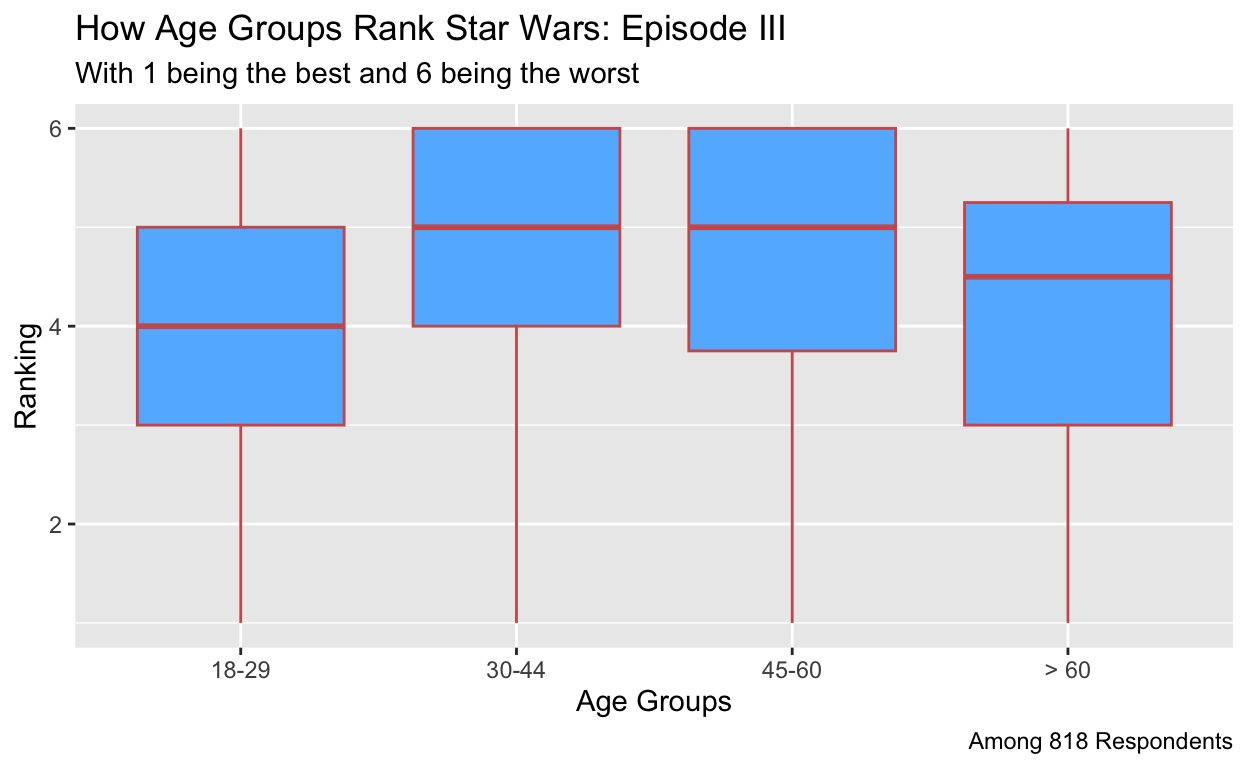
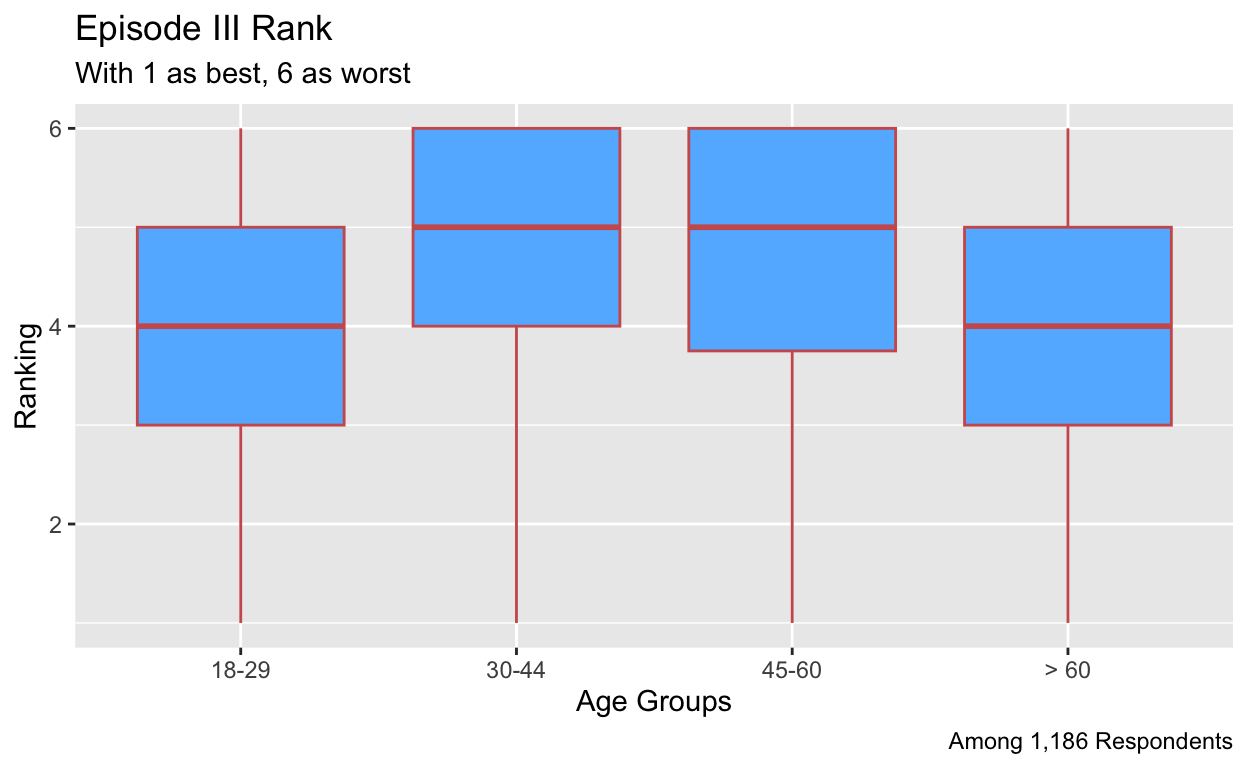
more data visualization of all movies

diff --git a/index.html b/index.html
@@ -115,7 +115,7 @@ code span.wa { color: #5e5e5e; font-style: italic; } /* Warning */
   <!--/radix_placeholder_rmarkdown_metadata-->
   
   <script type="text/json" id="radix-resource-manifest">
-  {"type":"character","attributes":{},"value":["index_files/anchor-4.2.2/anchor.min.js","index_files/bowser-1.9.3/bowser.min.js","index_files/distill-2.2.21/template.v2.js","index_files/figure-html5/unnamed-chunk-2-1.png","index_files/header-attrs-2.17/header-attrs.js","index_files/header-attrs-2.24/header-attrs.js","index_files/jquery-3.6.0/jquery-3.6.0.js","index_files/jquery-3.6.0/jquery-3.6.0.min.js","index_files/jquery-3.6.0/jquery-3.6.0.min.map","index_files/popper-2.6.0/popper.min.js","index_files/tippy-6.2.7/tippy-bundle.umd.min.js","index_files/tippy-6.2.7/tippy-light-border.css","index_files/tippy-6.2.7/tippy.css","index_files/tippy-6.2.7/tippy.umd.min.js","index_files/webcomponents-2.0.0/webcomponents.js"]}
+  {"type":"character","attributes":{},"value":["index_files/anchor-4.2.2/anchor.min.js","index_files/bowser-1.9.3/bowser.min.js","index_files/distill-2.2.21/template.v2.js","index_files/figure-html5/unnamed-chunk-2-1.png","index_files/figure-html5/unnamed-chunk-3-1.png","index_files/figure-html5/unnamed-chunk-3-2.png","index_files/header-attrs-2.17/header-attrs.js","index_files/header-attrs-2.24/header-attrs.js","index_files/jquery-3.6.0/jquery-3.6.0.js","index_files/jquery-3.6.0/jquery-3.6.0.min.js","index_files/jquery-3.6.0/jquery-3.6.0.min.map","index_files/popper-2.6.0/popper.min.js","index_files/tippy-6.2.7/tippy-bundle.umd.min.js","index_files/tippy-6.2.7/tippy-light-border.css","index_files/tippy-6.2.7/tippy.css","index_files/tippy-6.2.7/tippy.umd.min.js","index_files/webcomponents-2.0.0/webcomponents.js"]}
   </script>
   <!--radix_placeholder_navigation_in_header-->
   <!--/radix_placeholder_navigation_in_header-->
@@ -1517,15 +1517,16 @@ code span.wa { color: #5e5e5e; font-style: italic; } /* Warning */
 </div>
 
 <div class="d-article">
-<h2 id="project-thoughts">Project thoughts</h2>
+<h2 id="project-thoughts-milestone-1">Project Thoughts (Milestone 1)</h2>
 <p>I am interested in exploring data related to Taylor Swift’s impact on benefiting the economy, voting behavior, or something related to movies.</p>
-<h2 id="proposal">Proposal</h2>
+<h2 id="proposal-milestone-2">Proposal (Milestone 2)</h2>
 <p>Do younger people prefer the Star Wars prequel movies more than the originals? In this study, I plan to analyze respondents ages and which Star Wars movies they like the most. I hypothesize that if people are younger then they will prefer the prequel movies more than the originals because they grew up as the prequel movies were being released. For this analysis, I will be using data collected by Walt Hickey from FiveThirtyEight. The explanatory variable of interest is the age group of the respondents in the survey. This is measured in four age groups: 18-29, 30-44, 45-60, and &gt; 60. My outcome variable is how respondents ranked the 6 Star Wars movies. This is measured by rankings of 1 to 6 with 1 being their favorite film and 6 being their least favorite. If I observe that those in the younger age category (18-29) ranked the prequel movies higher, this would support my hypothesis. However, if I observe the opposite and say, for example, there is only strong support for the original movies among all age groups, this would be evidence against my hypothesis.</p>
-<h2 id="data-visualization">Data Visualization</h2>
+<h2 id="data-visualization-milestone-3">Data Visualization (Milestone 3)</h2>
 <div class="layout-chunk" data-layout="l-body">
 <div class="sourceCode">
 <pre class="sourceCode r"><code class="sourceCode r"><span><span class='kw'><a href='https://rdrr.io/r/base/library.html'>library</a></span><span class='op'>(</span><span class='va'><a href='https://tidyverse.tidyverse.org'>tidyverse</a></span><span class='op'>)</span></span>
 <span><span class='kw'><a href='https://rdrr.io/r/base/library.html'>library</a></span><span class='op'>(</span><span class='va'><a href='https://ggplot2.tidyverse.org'>ggplot2</a></span><span class='op'>)</span></span>
+<span><span class='kw'><a href='https://rdrr.io/r/base/library.html'>library</a></span><span class='op'>(</span><span class='va'><a href='https://rpkgs.datanovia.com/ggpubr/'>ggpubr</a></span><span class='op'>)</span></span>
 <span><span class='fu'><a href='https://rdrr.io/r/base/load.html'>load</a></span><span class='op'>(</span><span class='st'>"StarWars.RData"</span><span class='op'>)</span></span>
 <span><span class='va'>StarWars</span> <span class='op'>&lt;-</span> <span class='fu'><a href='https://tibble.tidyverse.org/reference/as_tibble.html'>as_tibble</a></span><span class='op'>(</span><span class='va'>StarWars</span><span class='op'>)</span> <span class='op'>|&gt;</span></span>
 <span>  <span class='fu'><a href='https://dplyr.tidyverse.org/reference/select.html'>select</a></span><span class='op'>(</span><span class='va'>V1</span><span class='op'>:</span><span class='va'>V3</span>, <span class='va'>V10</span><span class='op'>:</span><span class='va'>V15</span>, <span class='va'>V34</span><span class='op'>:</span><span class='va'>V38</span><span class='op'>)</span> <span class='op'>|&gt;</span></span>
@@ -1539,44 +1540,114 @@ code span.wa { color: #5e5e5e; font-style: italic; } /* Warning */
 <span>         ep3_rank <span class='op'>=</span> <span class='fu'><a href='https://rdrr.io/r/base/integer.html'>as.integer</a></span><span class='op'>(</span><span class='va'>ep3_rank</span><span class='op'>)</span>,</span>
 <span>         ep4_rank <span class='op'>=</span> <span class='fu'><a href='https://rdrr.io/r/base/integer.html'>as.integer</a></span><span class='op'>(</span><span class='va'>ep4_rank</span><span class='op'>)</span>,</span>
 <span>         ep5_rank <span class='op'>=</span> <span class='fu'><a href='https://rdrr.io/r/base/integer.html'>as.integer</a></span><span class='op'>(</span><span class='va'>ep5_rank</span><span class='op'>)</span>,</span>
-<span>         ep6_rank <span class='op'>=</span> <span class='fu'><a href='https://rdrr.io/r/base/integer.html'>as.integer</a></span><span class='op'>(</span><span class='va'>ep6_rank</span><span class='op'>)</span><span class='op'>)</span> <span class='op'>|&gt;</span></span>
-<span>  <span class='fu'><a href='https://rdrr.io/r/stats/na.fail.html'>na.omit</a></span><span class='op'>(</span><span class='op'>)</span></span>
+<span>         ep6_rank <span class='op'>=</span> <span class='fu'><a href='https://rdrr.io/r/base/integer.html'>as.integer</a></span><span class='op'>(</span><span class='va'>ep6_rank</span><span class='op'>)</span><span class='op'>)</span></span>
 <span><span class='va'>StarWars</span></span></code></pre>
 </div>
-<pre><code># A tibble: 834 × 14
+<pre><code># A tibble: 1,186 × 14
    respondent_id seen_any_film fan   ep1_rank ep2_rank ep3_rank
    &lt;chr&gt;         &lt;chr&gt;         &lt;chr&gt;    &lt;int&gt;    &lt;int&gt;    &lt;int&gt;
- 1 3292879998    Yes           Yes          3        2        1
- 2 3292765271    Yes           No           1        2        3
- 3 3292763116    Yes           Yes          5        6        1
- 4 3292731220    Yes           Yes          5        4        6
- 5 3292719380    Yes           Yes          1        4        3
- 6 3292684787    Yes           Yes          6        5        4
- 7 3292663732    Yes           Yes          4        5        6
- 8 3292654043    Yes           Yes          5        4        6
- 9 3292640424    Yes           No           1        2        3
-10 3292609214    Yes           No           3        4        5
-# ℹ 824 more rows
+ 1 3292879998    Yes           &quot;Yes&quot;        3        2        1
+ 2 3292879538    No            &quot;&quot;          NA       NA       NA
+ 3 3292765271    Yes           &quot;No&quot;         1        2        3
+ 4 3292763116    Yes           &quot;Yes&quot;        5        6        1
+ 5 3292731220    Yes           &quot;Yes&quot;        5        4        6
+ 6 3292719380    Yes           &quot;Yes&quot;        1        4        3
+ 7 3292684787    Yes           &quot;Yes&quot;        6        5        4
+ 8 3292663732    Yes           &quot;Yes&quot;        4        5        6
+ 9 3292654043    Yes           &quot;Yes&quot;        5        4        6
+10 3292640424    Yes           &quot;No&quot;         1        2        3
+# ℹ 1,176 more rows
 # ℹ 8 more variables: ep4_rank &lt;int&gt;, ep5_rank &lt;int&gt;, ep6_rank &lt;int&gt;,
 #   gender &lt;chr&gt;, age &lt;chr&gt;, income &lt;chr&gt;, education &lt;chr&gt;,
 #   location &lt;chr&gt;</code></pre>
 </div>
 <div class="layout-chunk" data-layout="l-body">
 <div class="sourceCode">
-<pre class="sourceCode r"><code class="sourceCode r"><span><span class='va'>StarWars</span> <span class='op'>|&gt;</span></span>
+<pre class="sourceCode r"><code class="sourceCode r"><span><span class='va'>age_ep3_rank</span> <span class='op'>&lt;-</span> <span class='va'>StarWars</span> <span class='op'>|&gt;</span></span>
 <span>  <span class='fu'><a href='https://dplyr.tidyverse.org/reference/filter.html'>filter</a></span><span class='op'>(</span><span class='va'>age</span> <span class='op'>==</span> <span class='st'>"18-29"</span> <span class='op'>|</span> <span class='va'>age</span> <span class='op'>==</span> <span class='st'>"30-44"</span> <span class='op'>|</span> <span class='va'>age</span> <span class='op'>==</span> <span class='st'>"45-60"</span> <span class='op'>|</span> <span class='va'>age</span> <span class='op'>==</span> <span class='st'>"&gt; 60"</span><span class='op'>)</span> <span class='op'>|&gt;</span></span>
 <span>  <span class='fu'><a href='https://ggplot2.tidyverse.org/reference/ggplot.html'>ggplot</a></span><span class='op'>(</span>mapping <span class='op'>=</span> <span class='fu'><a href='https://ggplot2.tidyverse.org/reference/aes.html'>aes</a></span><span class='op'>(</span>x <span class='op'>=</span> <span class='fu'><a href='https://rdrr.io/r/base/factor.html'>factor</a></span><span class='op'>(</span><span class='va'>age</span>, level <span class='op'>=</span> <span class='fu'><a href='https://rdrr.io/r/base/c.html'>c</a></span><span class='op'>(</span><span class='st'>"18-29"</span>, <span class='st'>"30-44"</span>, <span class='st'>"45-60"</span>, <span class='st'>"&gt; 60"</span><span class='op'>)</span><span class='op'>)</span>,</span>
 <span>                       y <span class='op'>=</span> <span class='va'>ep3_rank</span><span class='op'>)</span><span class='op'>)</span> <span class='op'>+</span></span>
 <span>  <span class='fu'><a href='https://ggplot2.tidyverse.org/reference/geom_boxplot.html'>geom_boxplot</a></span><span class='op'>(</span>color <span class='op'>=</span> <span class='st'>"indianred"</span>, fill <span class='op'>=</span> <span class='st'>"steelblue1"</span><span class='op'>)</span> <span class='op'>+</span></span>
-<span>  <span class='fu'><a href='https://ggplot2.tidyverse.org/reference/labs.html'>labs</a></span><span class='op'>(</span>title <span class='op'>=</span> <span class='st'>"How Age Groups Rank Star Wars: Episode III"</span>,</span>
-<span>       subtitle <span class='op'>=</span> <span class='st'>"With 1 being the best and 6 being the worst"</span>,</span>
+<span>  <span class='fu'><a href='https://ggplot2.tidyverse.org/reference/labs.html'>labs</a></span><span class='op'>(</span>title <span class='op'>=</span> <span class='st'>"Episode III Rank"</span>,</span>
+<span>       subtitle <span class='op'>=</span> <span class='st'>"With 1 as best, 6 as worst"</span>,</span>
 <span>       x <span class='op'>=</span> <span class='st'>"Age Groups"</span>,</span>
 <span>       y <span class='op'>=</span> <span class='st'>"Ranking"</span>,</span>
-<span>       caption <span class='op'>=</span> <span class='st'>"Among 818 Respondents"</span><span class='op'>)</span></span></code></pre>
+<span>       caption <span class='op'>=</span> <span class='st'>"Among 1,186 Respondents"</span><span class='op'>)</span></span>
+<span><span class='va'>age_ep3_rank</span></span></code></pre>
 </div>
 <p><img src="index_files/figure-html5/unnamed-chunk-2-1.png" width="624" /></p>
 </div>
-<div class="sourceCode" id="cb2"><pre class="sourceCode r distill-force-highlighting-css"><code class="sourceCode r"></code></pre></div>
+<p>Based on this visualization, it appears that across all age groups, Star Wars: Episode III is not often placed highly in the ranking of the films. However, those 18-29 and &gt;60 place it higher than those 30-60.</p>
+<h2 id="data-analysis-milestone-4">Data Analysis (Milestone 4)</h2>
+<div class="layout-chunk" data-layout="l-body">
+<div class="sourceCode">
+<pre class="sourceCode r"><code class="sourceCode r"><span><span class='va'>age_ep1_rank</span> <span class='op'>&lt;-</span> <span class='va'>StarWars</span> <span class='op'>|&gt;</span></span>
+<span>  <span class='fu'><a href='https://dplyr.tidyverse.org/reference/filter.html'>filter</a></span><span class='op'>(</span><span class='va'>age</span> <span class='op'>==</span> <span class='st'>"18-29"</span> <span class='op'>|</span> <span class='va'>age</span> <span class='op'>==</span> <span class='st'>"30-44"</span> <span class='op'>|</span> <span class='va'>age</span> <span class='op'>==</span> <span class='st'>"45-60"</span> <span class='op'>|</span> <span class='va'>age</span> <span class='op'>==</span> <span class='st'>"&gt; 60"</span><span class='op'>)</span> <span class='op'>|&gt;</span></span>
+<span>  <span class='fu'><a href='https://ggplot2.tidyverse.org/reference/ggplot.html'>ggplot</a></span><span class='op'>(</span>mapping <span class='op'>=</span> <span class='fu'><a href='https://ggplot2.tidyverse.org/reference/aes.html'>aes</a></span><span class='op'>(</span>x <span class='op'>=</span> <span class='fu'><a href='https://rdrr.io/r/base/factor.html'>factor</a></span><span class='op'>(</span><span class='va'>age</span>, level <span class='op'>=</span> <span class='fu'><a href='https://rdrr.io/r/base/c.html'>c</a></span><span class='op'>(</span><span class='st'>"18-29"</span>, <span class='st'>"30-44"</span>, <span class='st'>"45-60"</span>, <span class='st'>"&gt; 60"</span><span class='op'>)</span><span class='op'>)</span>,</span>
+<span>                       y <span class='op'>=</span> <span class='va'>ep1_rank</span><span class='op'>)</span><span class='op'>)</span> <span class='op'>+</span></span>
+<span>  <span class='fu'><a href='https://ggplot2.tidyverse.org/reference/geom_boxplot.html'>geom_boxplot</a></span><span class='op'>(</span>color <span class='op'>=</span> <span class='st'>"indianred"</span>, fill <span class='op'>=</span> <span class='st'>"steelblue1"</span><span class='op'>)</span> <span class='op'>+</span></span>
+<span>  <span class='fu'><a href='https://ggplot2.tidyverse.org/reference/labs.html'>labs</a></span><span class='op'>(</span>title <span class='op'>=</span> <span class='st'>"Episode I Rank"</span>,</span>
+<span>       subtitle <span class='op'>=</span> <span class='st'>"With 1 as best, 6 as worst"</span>,</span>
+<span>       x <span class='op'>=</span> <span class='st'>"Age Groups"</span>,</span>
+<span>       y <span class='op'>=</span> <span class='st'>"Ranking"</span>,</span>
+<span>       caption <span class='op'>=</span> <span class='st'>"Among 1,186 Respondents"</span><span class='op'>)</span></span>
+<span></span>
+<span><span class='va'>age_ep2_rank</span> <span class='op'>&lt;-</span> <span class='va'>StarWars</span> <span class='op'>|&gt;</span></span>
+<span>  <span class='fu'><a href='https://dplyr.tidyverse.org/reference/filter.html'>filter</a></span><span class='op'>(</span><span class='va'>age</span> <span class='op'>==</span> <span class='st'>"18-29"</span> <span class='op'>|</span> <span class='va'>age</span> <span class='op'>==</span> <span class='st'>"30-44"</span> <span class='op'>|</span> <span class='va'>age</span> <span class='op'>==</span> <span class='st'>"45-60"</span> <span class='op'>|</span> <span class='va'>age</span> <span class='op'>==</span> <span class='st'>"&gt; 60"</span><span class='op'>)</span> <span class='op'>|&gt;</span></span>
+<span>  <span class='fu'><a href='https://ggplot2.tidyverse.org/reference/ggplot.html'>ggplot</a></span><span class='op'>(</span>mapping <span class='op'>=</span> <span class='fu'><a href='https://ggplot2.tidyverse.org/reference/aes.html'>aes</a></span><span class='op'>(</span>x <span class='op'>=</span> <span class='fu'><a href='https://rdrr.io/r/base/factor.html'>factor</a></span><span class='op'>(</span><span class='va'>age</span>, level <span class='op'>=</span> <span class='fu'><a href='https://rdrr.io/r/base/c.html'>c</a></span><span class='op'>(</span><span class='st'>"18-29"</span>, <span class='st'>"30-44"</span>, <span class='st'>"45-60"</span>, <span class='st'>"&gt; 60"</span><span class='op'>)</span><span class='op'>)</span>,</span>
+<span>                       y <span class='op'>=</span> <span class='va'>ep2_rank</span><span class='op'>)</span><span class='op'>)</span> <span class='op'>+</span></span>
+<span>  <span class='fu'><a href='https://ggplot2.tidyverse.org/reference/geom_boxplot.html'>geom_boxplot</a></span><span class='op'>(</span>color <span class='op'>=</span> <span class='st'>"indianred"</span>, fill <span class='op'>=</span> <span class='st'>"steelblue1"</span><span class='op'>)</span> <span class='op'>+</span></span>
+<span>  <span class='fu'><a href='https://ggplot2.tidyverse.org/reference/labs.html'>labs</a></span><span class='op'>(</span>title <span class='op'>=</span> <span class='st'>"Episode II Rank"</span>,</span>
+<span>       subtitle <span class='op'>=</span> <span class='st'>"With 1 as best, 6 as worst"</span>,</span>
+<span>       x <span class='op'>=</span> <span class='st'>"Age Groups"</span>,</span>
+<span>       y <span class='op'>=</span> <span class='st'>"Ranking"</span>,</span>
+<span>       caption <span class='op'>=</span> <span class='st'>"Among 1,186 Respondents"</span><span class='op'>)</span></span>
+<span>  </span>
+<span><span class='va'>age_ep4_rank</span> <span class='op'>&lt;-</span> <span class='va'>StarWars</span> <span class='op'>|&gt;</span></span>
+<span>  <span class='fu'><a href='https://dplyr.tidyverse.org/reference/filter.html'>filter</a></span><span class='op'>(</span><span class='va'>age</span> <span class='op'>==</span> <span class='st'>"18-29"</span> <span class='op'>|</span> <span class='va'>age</span> <span class='op'>==</span> <span class='st'>"30-44"</span> <span class='op'>|</span> <span class='va'>age</span> <span class='op'>==</span> <span class='st'>"45-60"</span> <span class='op'>|</span> <span class='va'>age</span> <span class='op'>==</span> <span class='st'>"&gt; 60"</span><span class='op'>)</span> <span class='op'>|&gt;</span></span>
+<span>  <span class='fu'><a href='https://ggplot2.tidyverse.org/reference/ggplot.html'>ggplot</a></span><span class='op'>(</span>mapping <span class='op'>=</span> <span class='fu'><a href='https://ggplot2.tidyverse.org/reference/aes.html'>aes</a></span><span class='op'>(</span>x <span class='op'>=</span> <span class='fu'><a href='https://rdrr.io/r/base/factor.html'>factor</a></span><span class='op'>(</span><span class='va'>age</span>, level <span class='op'>=</span> <span class='fu'><a href='https://rdrr.io/r/base/c.html'>c</a></span><span class='op'>(</span><span class='st'>"18-29"</span>, <span class='st'>"30-44"</span>, <span class='st'>"45-60"</span>, <span class='st'>"&gt; 60"</span><span class='op'>)</span><span class='op'>)</span>,</span>
+<span>                       y <span class='op'>=</span> <span class='va'>ep4_rank</span><span class='op'>)</span><span class='op'>)</span> <span class='op'>+</span></span>
+<span>  <span class='fu'><a href='https://ggplot2.tidyverse.org/reference/geom_boxplot.html'>geom_boxplot</a></span><span class='op'>(</span>color <span class='op'>=</span> <span class='st'>"indianred"</span>, fill <span class='op'>=</span> <span class='st'>"steelblue1"</span><span class='op'>)</span> <span class='op'>+</span></span>
+<span>  <span class='fu'><a href='https://ggplot2.tidyverse.org/reference/labs.html'>labs</a></span><span class='op'>(</span>title <span class='op'>=</span> <span class='st'>"Episode IV Rank"</span>,</span>
+<span>       subtitle <span class='op'>=</span> <span class='st'>"With 1 as best, 6 as worst"</span>,</span>
+<span>       x <span class='op'>=</span> <span class='st'>"Age Groups"</span>,</span>
+<span>       y <span class='op'>=</span> <span class='st'>"Ranking"</span>,</span>
+<span>       caption <span class='op'>=</span> <span class='st'>"Among 1,186 Respondents"</span><span class='op'>)</span></span>
+<span>  </span>
+<span><span class='va'>age_ep5_rank</span> <span class='op'>&lt;-</span> <span class='va'>StarWars</span> <span class='op'>|&gt;</span></span>
+<span>  <span class='fu'><a href='https://dplyr.tidyverse.org/reference/filter.html'>filter</a></span><span class='op'>(</span><span class='va'>age</span> <span class='op'>==</span> <span class='st'>"18-29"</span> <span class='op'>|</span> <span class='va'>age</span> <span class='op'>==</span> <span class='st'>"30-44"</span> <span class='op'>|</span> <span class='va'>age</span> <span class='op'>==</span> <span class='st'>"45-60"</span> <span class='op'>|</span> <span class='va'>age</span> <span class='op'>==</span> <span class='st'>"&gt; 60"</span><span class='op'>)</span> <span class='op'>|&gt;</span></span>
+<span>  <span class='fu'><a href='https://ggplot2.tidyverse.org/reference/ggplot.html'>ggplot</a></span><span class='op'>(</span>mapping <span class='op'>=</span> <span class='fu'><a href='https://ggplot2.tidyverse.org/reference/aes.html'>aes</a></span><span class='op'>(</span>x <span class='op'>=</span> <span class='fu'><a href='https://rdrr.io/r/base/factor.html'>factor</a></span><span class='op'>(</span><span class='va'>age</span>, level <span class='op'>=</span> <span class='fu'><a href='https://rdrr.io/r/base/c.html'>c</a></span><span class='op'>(</span><span class='st'>"18-29"</span>, <span class='st'>"30-44"</span>, <span class='st'>"45-60"</span>, <span class='st'>"&gt; 60"</span><span class='op'>)</span><span class='op'>)</span>,</span>
+<span>                       y <span class='op'>=</span> <span class='va'>ep5_rank</span><span class='op'>)</span><span class='op'>)</span> <span class='op'>+</span></span>
+<span>  <span class='fu'><a href='https://ggplot2.tidyverse.org/reference/geom_boxplot.html'>geom_boxplot</a></span><span class='op'>(</span>color <span class='op'>=</span> <span class='st'>"indianred"</span>, fill <span class='op'>=</span> <span class='st'>"steelblue1"</span><span class='op'>)</span> <span class='op'>+</span></span>
+<span>  <span class='fu'><a href='https://ggplot2.tidyverse.org/reference/labs.html'>labs</a></span><span class='op'>(</span>title <span class='op'>=</span> <span class='st'>"Episode V Rank"</span>,</span>
+<span>       subtitle <span class='op'>=</span> <span class='st'>"With 1 as best, 6 as worst"</span>,</span>
+<span>       x <span class='op'>=</span> <span class='st'>"Age Groups"</span>,</span>
+<span>       y <span class='op'>=</span> <span class='st'>"Ranking"</span>,</span>
+<span>       caption <span class='op'>=</span> <span class='st'>"Among 1,186 Respondents"</span><span class='op'>)</span></span>
+<span></span>
+<span><span class='va'>age_ep6_rank</span> <span class='op'>&lt;-</span> <span class='va'>StarWars</span> <span class='op'>|&gt;</span></span>
+<span>  <span class='fu'><a href='https://dplyr.tidyverse.org/reference/filter.html'>filter</a></span><span class='op'>(</span><span class='va'>age</span> <span class='op'>==</span> <span class='st'>"18-29"</span> <span class='op'>|</span> <span class='va'>age</span> <span class='op'>==</span> <span class='st'>"30-44"</span> <span class='op'>|</span> <span class='va'>age</span> <span class='op'>==</span> <span class='st'>"45-60"</span> <span class='op'>|</span> <span class='va'>age</span> <span class='op'>==</span> <span class='st'>"&gt; 60"</span><span class='op'>)</span> <span class='op'>|&gt;</span></span>
+<span>  <span class='fu'><a href='https://ggplot2.tidyverse.org/reference/ggplot.html'>ggplot</a></span><span class='op'>(</span>mapping <span class='op'>=</span> <span class='fu'><a href='https://ggplot2.tidyverse.org/reference/aes.html'>aes</a></span><span class='op'>(</span>x <span class='op'>=</span> <span class='fu'><a href='https://rdrr.io/r/base/factor.html'>factor</a></span><span class='op'>(</span><span class='va'>age</span>, level <span class='op'>=</span> <span class='fu'><a href='https://rdrr.io/r/base/c.html'>c</a></span><span class='op'>(</span><span class='st'>"18-29"</span>, <span class='st'>"30-44"</span>, <span class='st'>"45-60"</span>, <span class='st'>"&gt; 60"</span><span class='op'>)</span><span class='op'>)</span>,</span>
+<span>                       y <span class='op'>=</span> <span class='va'>ep6_rank</span><span class='op'>)</span><span class='op'>)</span> <span class='op'>+</span></span>
+<span>  <span class='fu'><a href='https://ggplot2.tidyverse.org/reference/geom_boxplot.html'>geom_boxplot</a></span><span class='op'>(</span>color <span class='op'>=</span> <span class='st'>"indianred"</span>, fill <span class='op'>=</span> <span class='st'>"steelblue1"</span><span class='op'>)</span> <span class='op'>+</span></span>
+<span>  <span class='fu'><a href='https://ggplot2.tidyverse.org/reference/labs.html'>labs</a></span><span class='op'>(</span>title <span class='op'>=</span> <span class='st'>"Episode VI Rank"</span>,</span>
+<span>       subtitle <span class='op'>=</span> <span class='st'>"With 1 as best, 6 as worst"</span>,</span>
+<span>       x <span class='op'>=</span> <span class='st'>"Age Groups"</span>,</span>
+<span>       y <span class='op'>=</span> <span class='st'>"Ranking"</span>,</span>
+<span>       caption <span class='op'>=</span> <span class='st'>"Among 1,186 Respondents"</span><span class='op'>)</span></span>
+<span></span>
+<span><span class='fu'><a href='https://rpkgs.datanovia.com/ggpubr/reference/ggarrange.html'>ggarrange</a></span><span class='op'>(</span><span class='va'>age_ep1_rank</span>, <span class='va'>age_ep2_rank</span>, <span class='va'>age_ep3_rank</span>, <span class='va'>age_ep4_rank</span>, <span class='va'>age_ep5_rank</span>, <span class='va'>age_ep6_rank</span>, ncol <span class='op'>=</span> <span class='fl'>3</span>, align <span class='op'>=</span> <span class='st'>"v"</span><span class='op'>)</span></span></code></pre>
+</div>
+<pre><code>$`1`</code></pre>
+<p><img src="index_files/figure-html5/unnamed-chunk-3-1.png" width="624" /></p>
+<pre><code>
+$`2`</code></pre>
+<p><img src="index_files/figure-html5/unnamed-chunk-3-2.png" width="624" /></p>
+<pre><code>
+attr(,&quot;class&quot;)
+[1] &quot;list&quot;      &quot;ggarrange&quot;</code></pre>
+</div>
+<div class="sourceCode" id="cb5"><pre class="sourceCode r distill-force-highlighting-css"><code class="sourceCode r"></code></pre></div>
 <!--radix_placeholder_article_footer-->
 <!--/radix_placeholder_article_footer-->
 </div>
